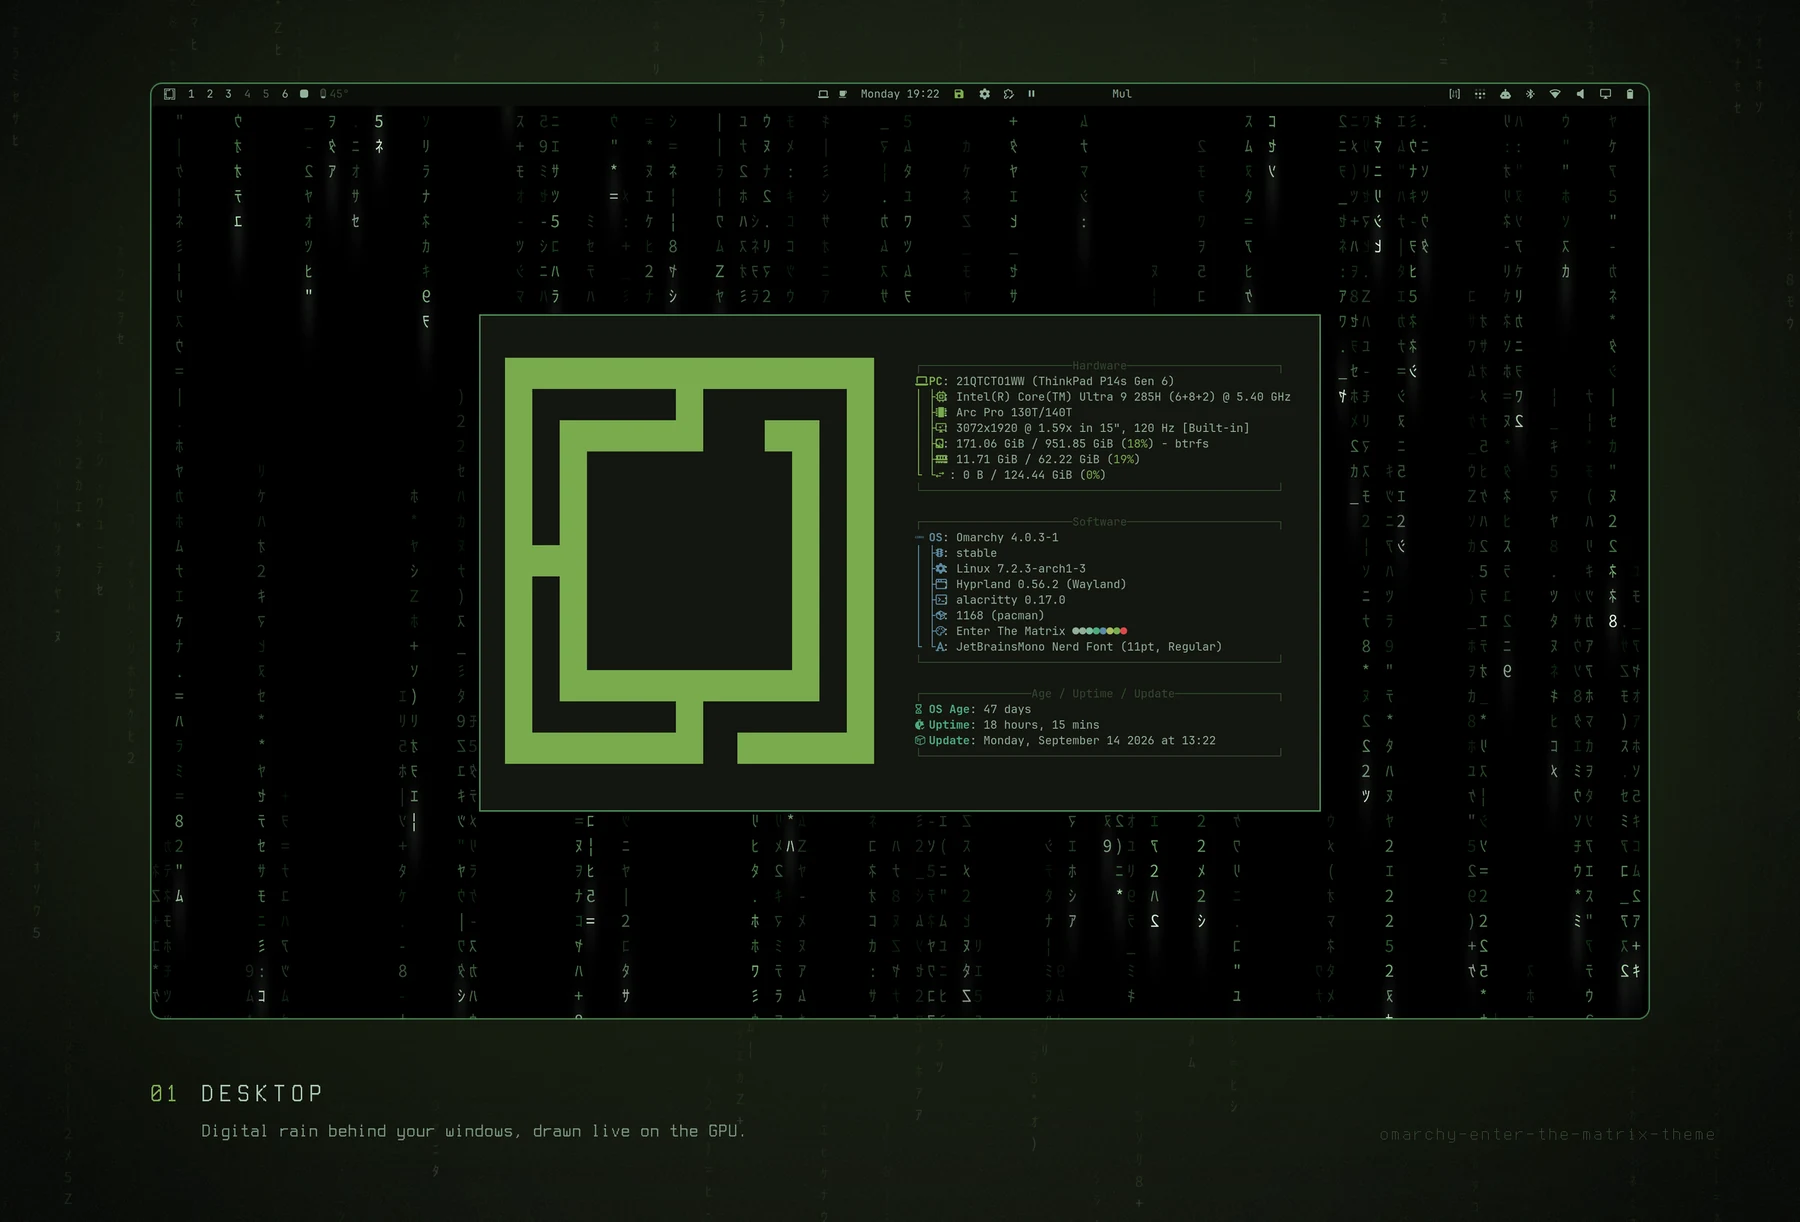
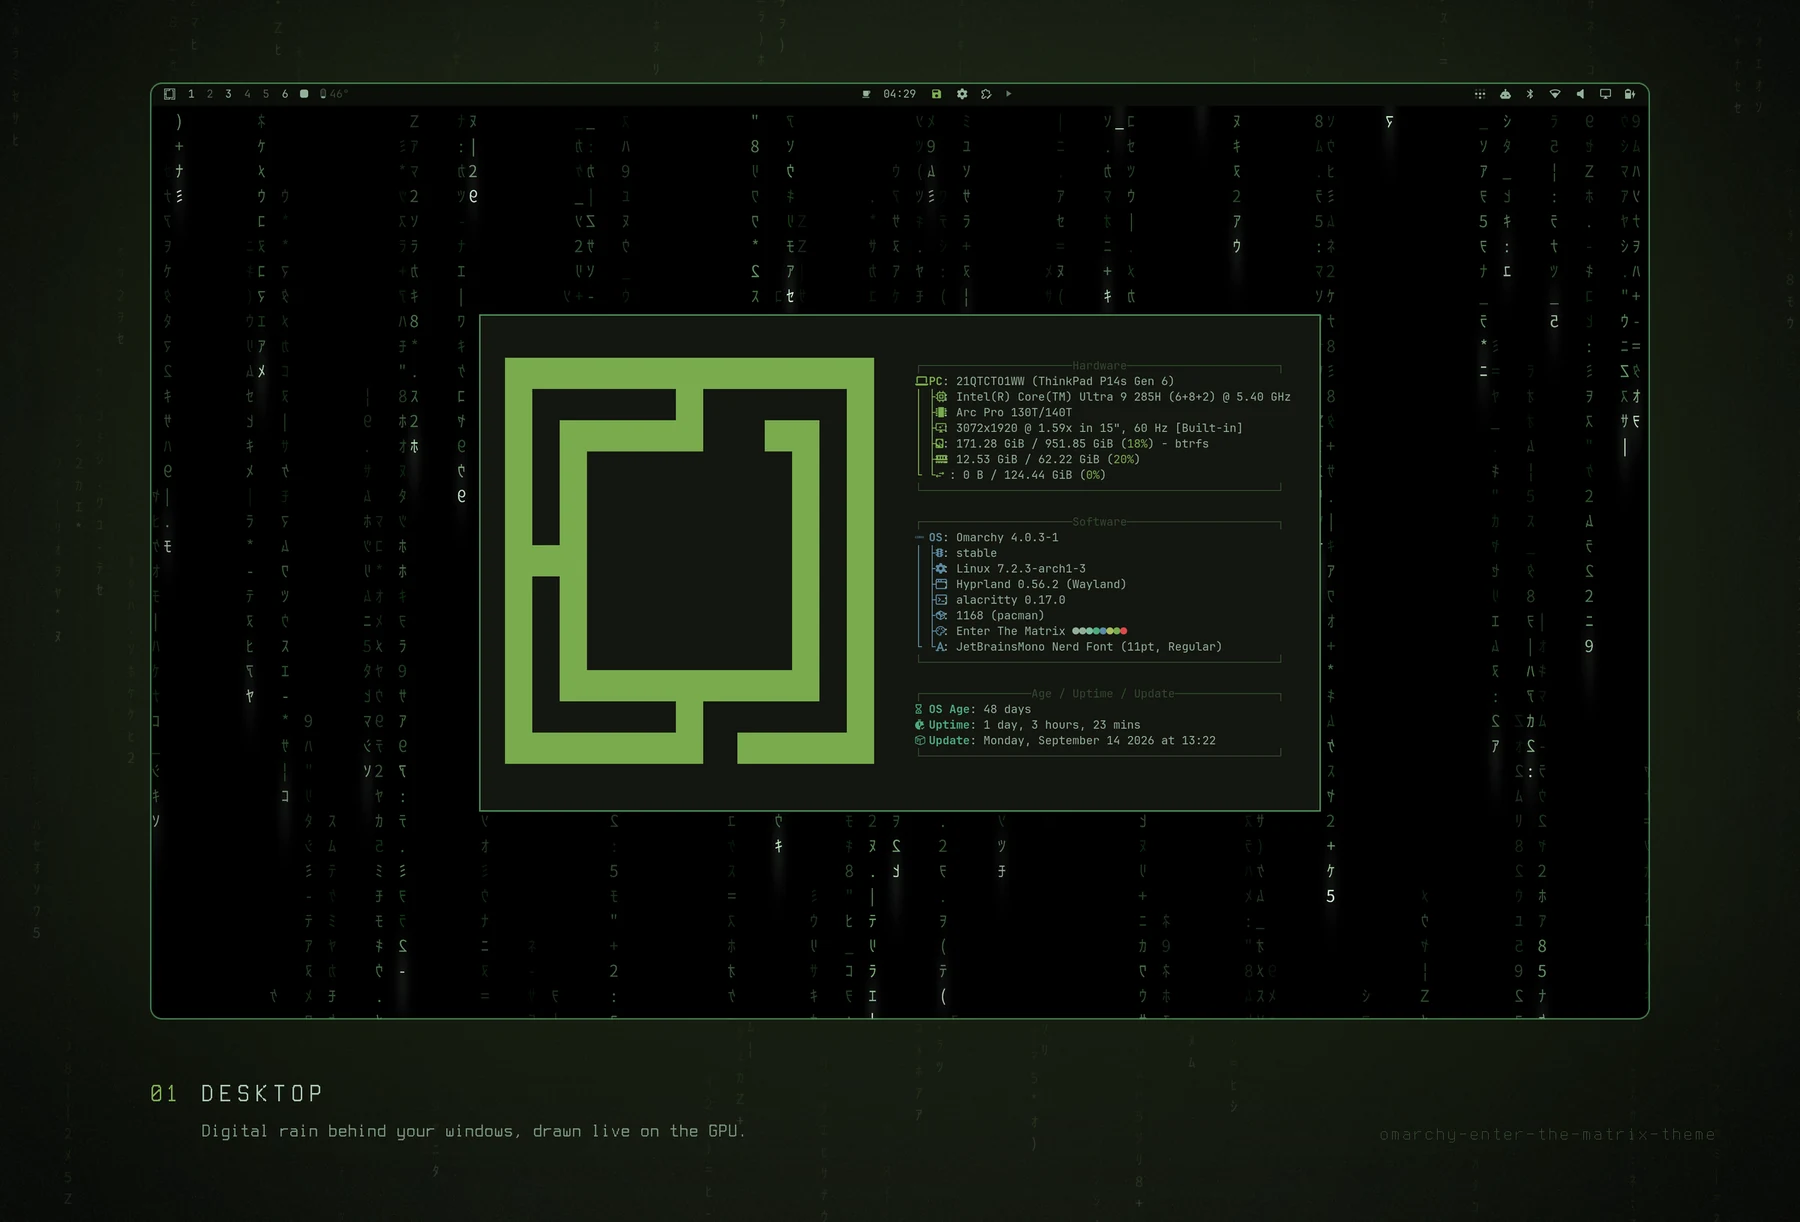
Photograph the pack without the widget
The poster showed the widget's panel, and the desktop picture and the
theme card (preview.png) showed its icon on the bar. The pack has no
widget since 1.3.0. The three pictures come from a new capture on this
machine: the desktop, the lock and the boot dialog.

generate-showcase.py now asks only for the shots of the picture that
--only names. A partial capture can then make one picture again, and
the pictures that did not change stay as they are.

diff --git a/tools/generate-showcase.py b/tools/generate-showcase.py
@@ -391,8 +391,17 @@ def main():
     parser.add_argument("--only", help="compose only this picture (poster, desktop, boot, ...)")
     args = parser.parse_args()
 
-    wanted = {e["shot"] for e in SINGLES}
-    wanted |= {p["shot"] for group in (BOOT, LINES, EXITS) for p in group["panels"]}
+    # Each picture asks only for its own shots, so one picture can be made
+    # again from a partial capture (capture-showcase.sh --only ...).
+    needs = {"poster": {"desktop.png", "lock.png", "boot-password.png"},
+             "preview": {"desktop.png"}}
+    needs |= {e["name"]: {e["shot"]} for e in SINGLES}
+    needs |= {g["name"]: {p["shot"] for p in g["panels"]} for g in (BOOT, LINES, EXITS)}
+    if args.only is not None and args.only not in needs:
+        print(f"unknown picture {args.only}; pick one of {', '.join(sorted(needs))}",
+              file=sys.stderr)
+        return 1
+    wanted = needs[args.only] if args.only else set().union(*needs.values())
     missing = sorted(n for n in wanted if not (args.shots / n).is_file())
     if missing:
         print(f"missing in {args.shots}: {', '.join(missing)}", file=sys.stderr)
